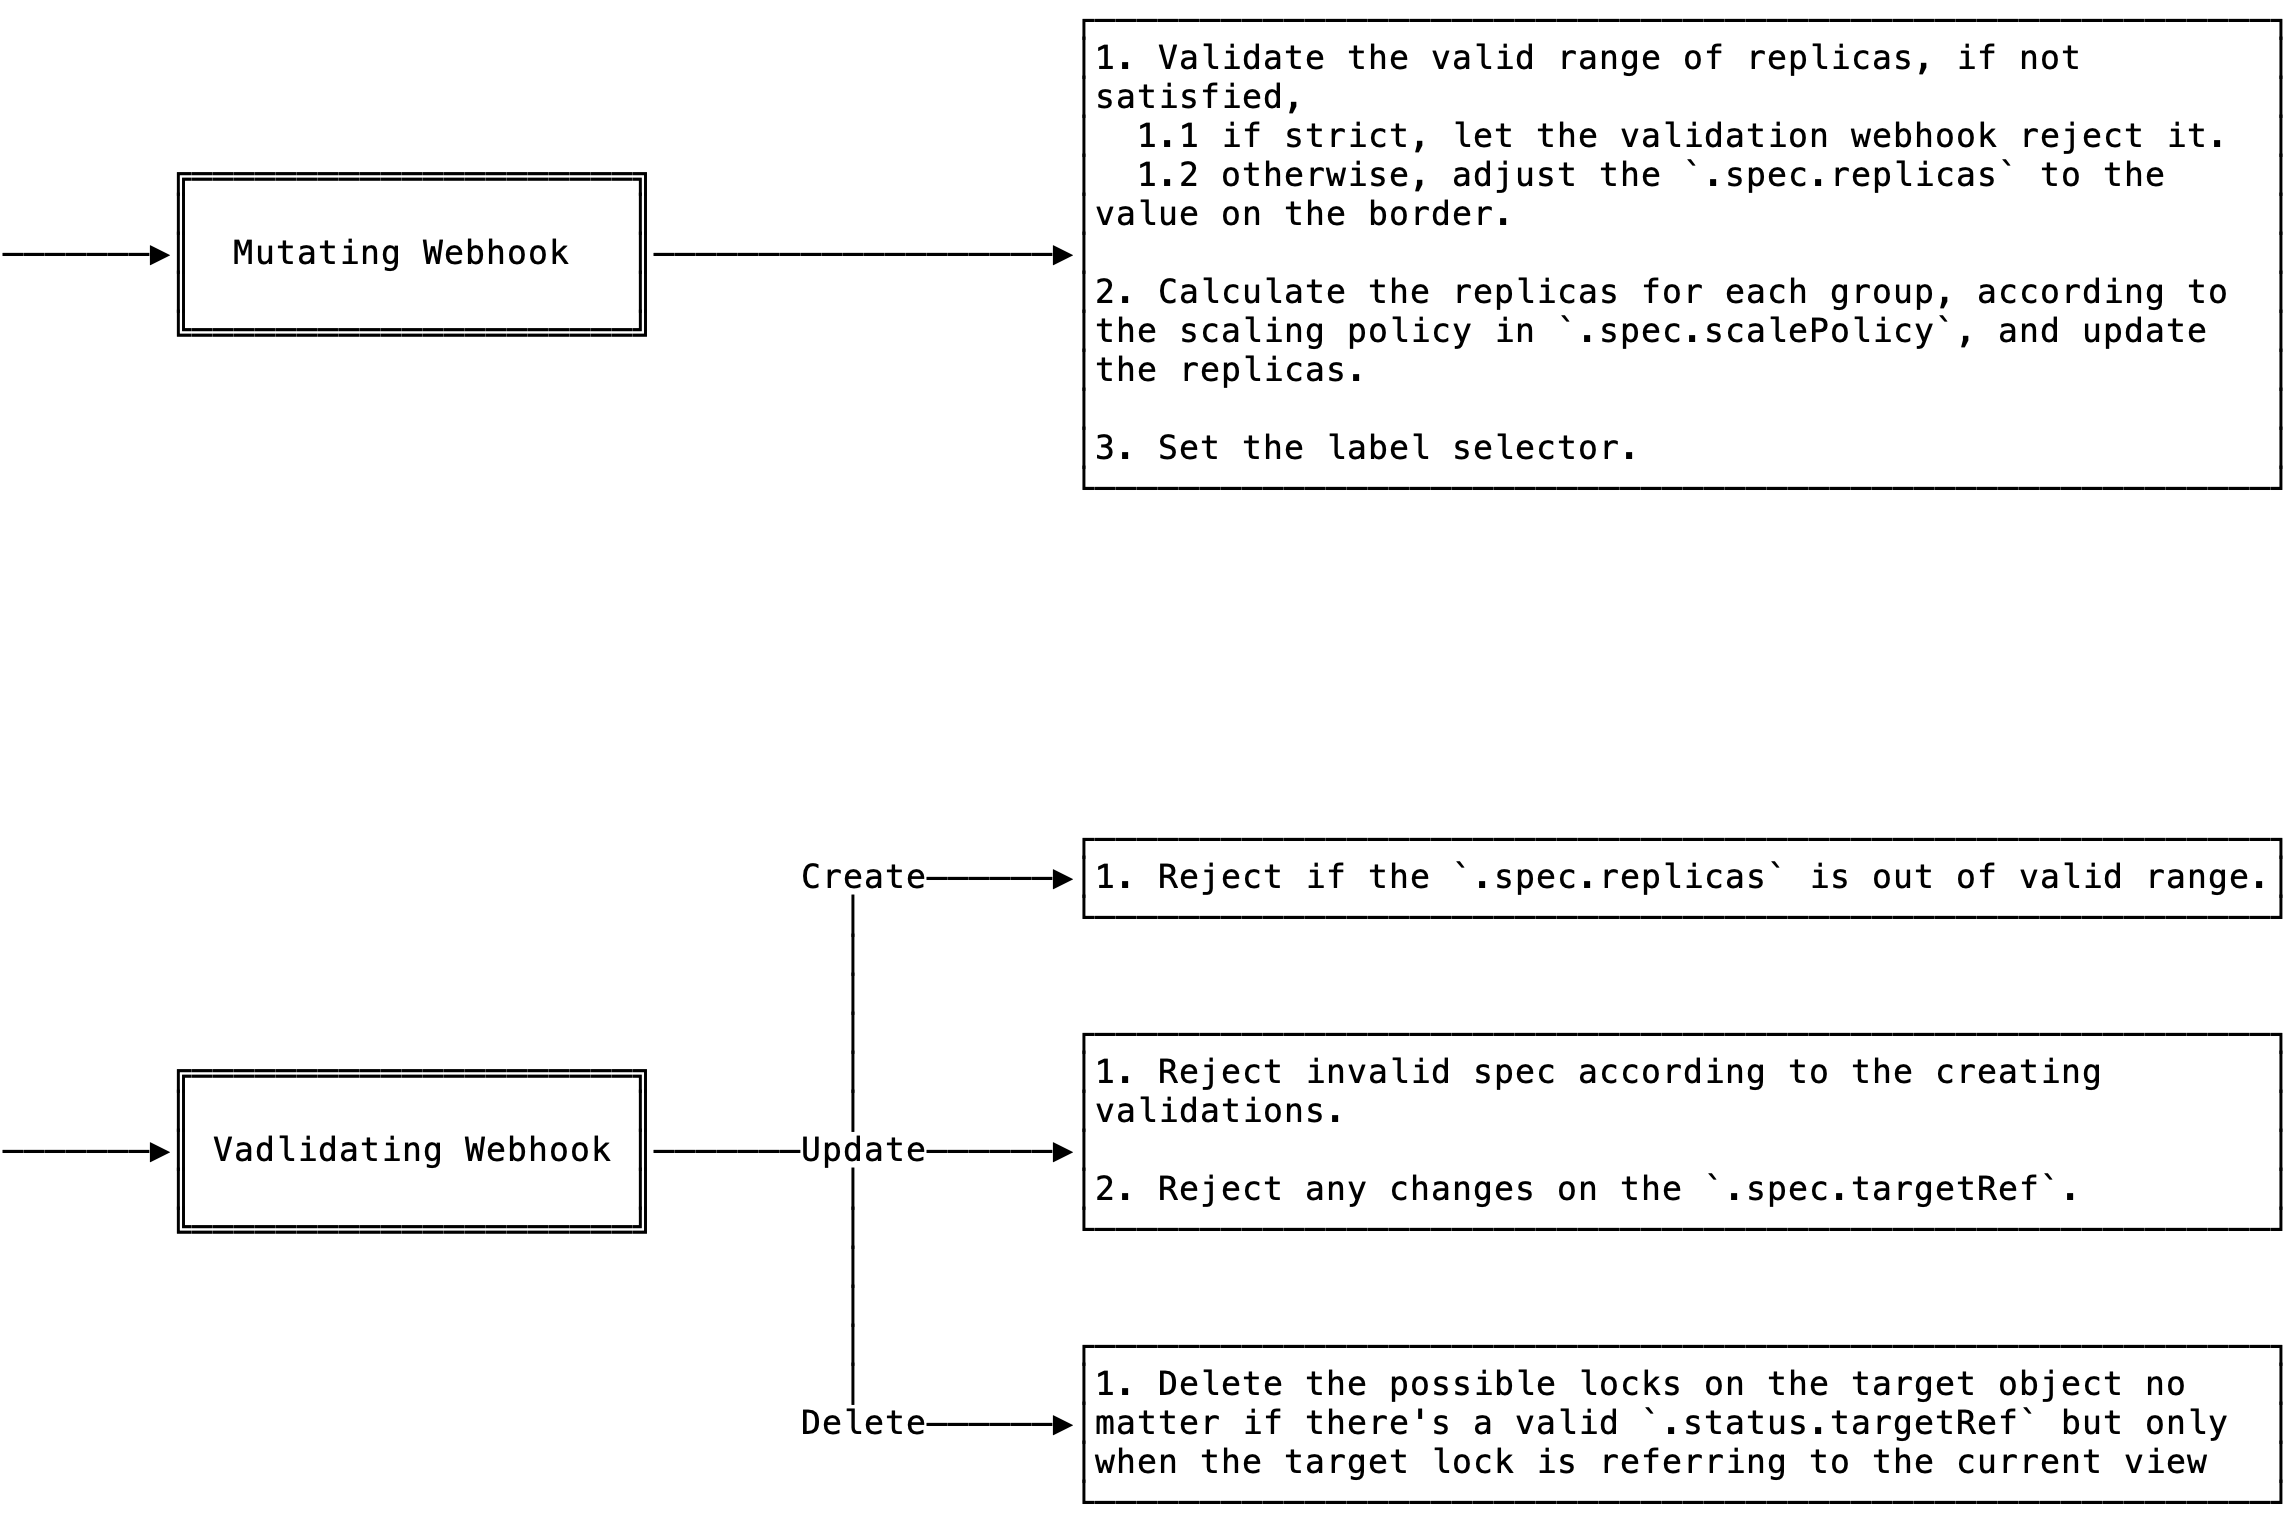
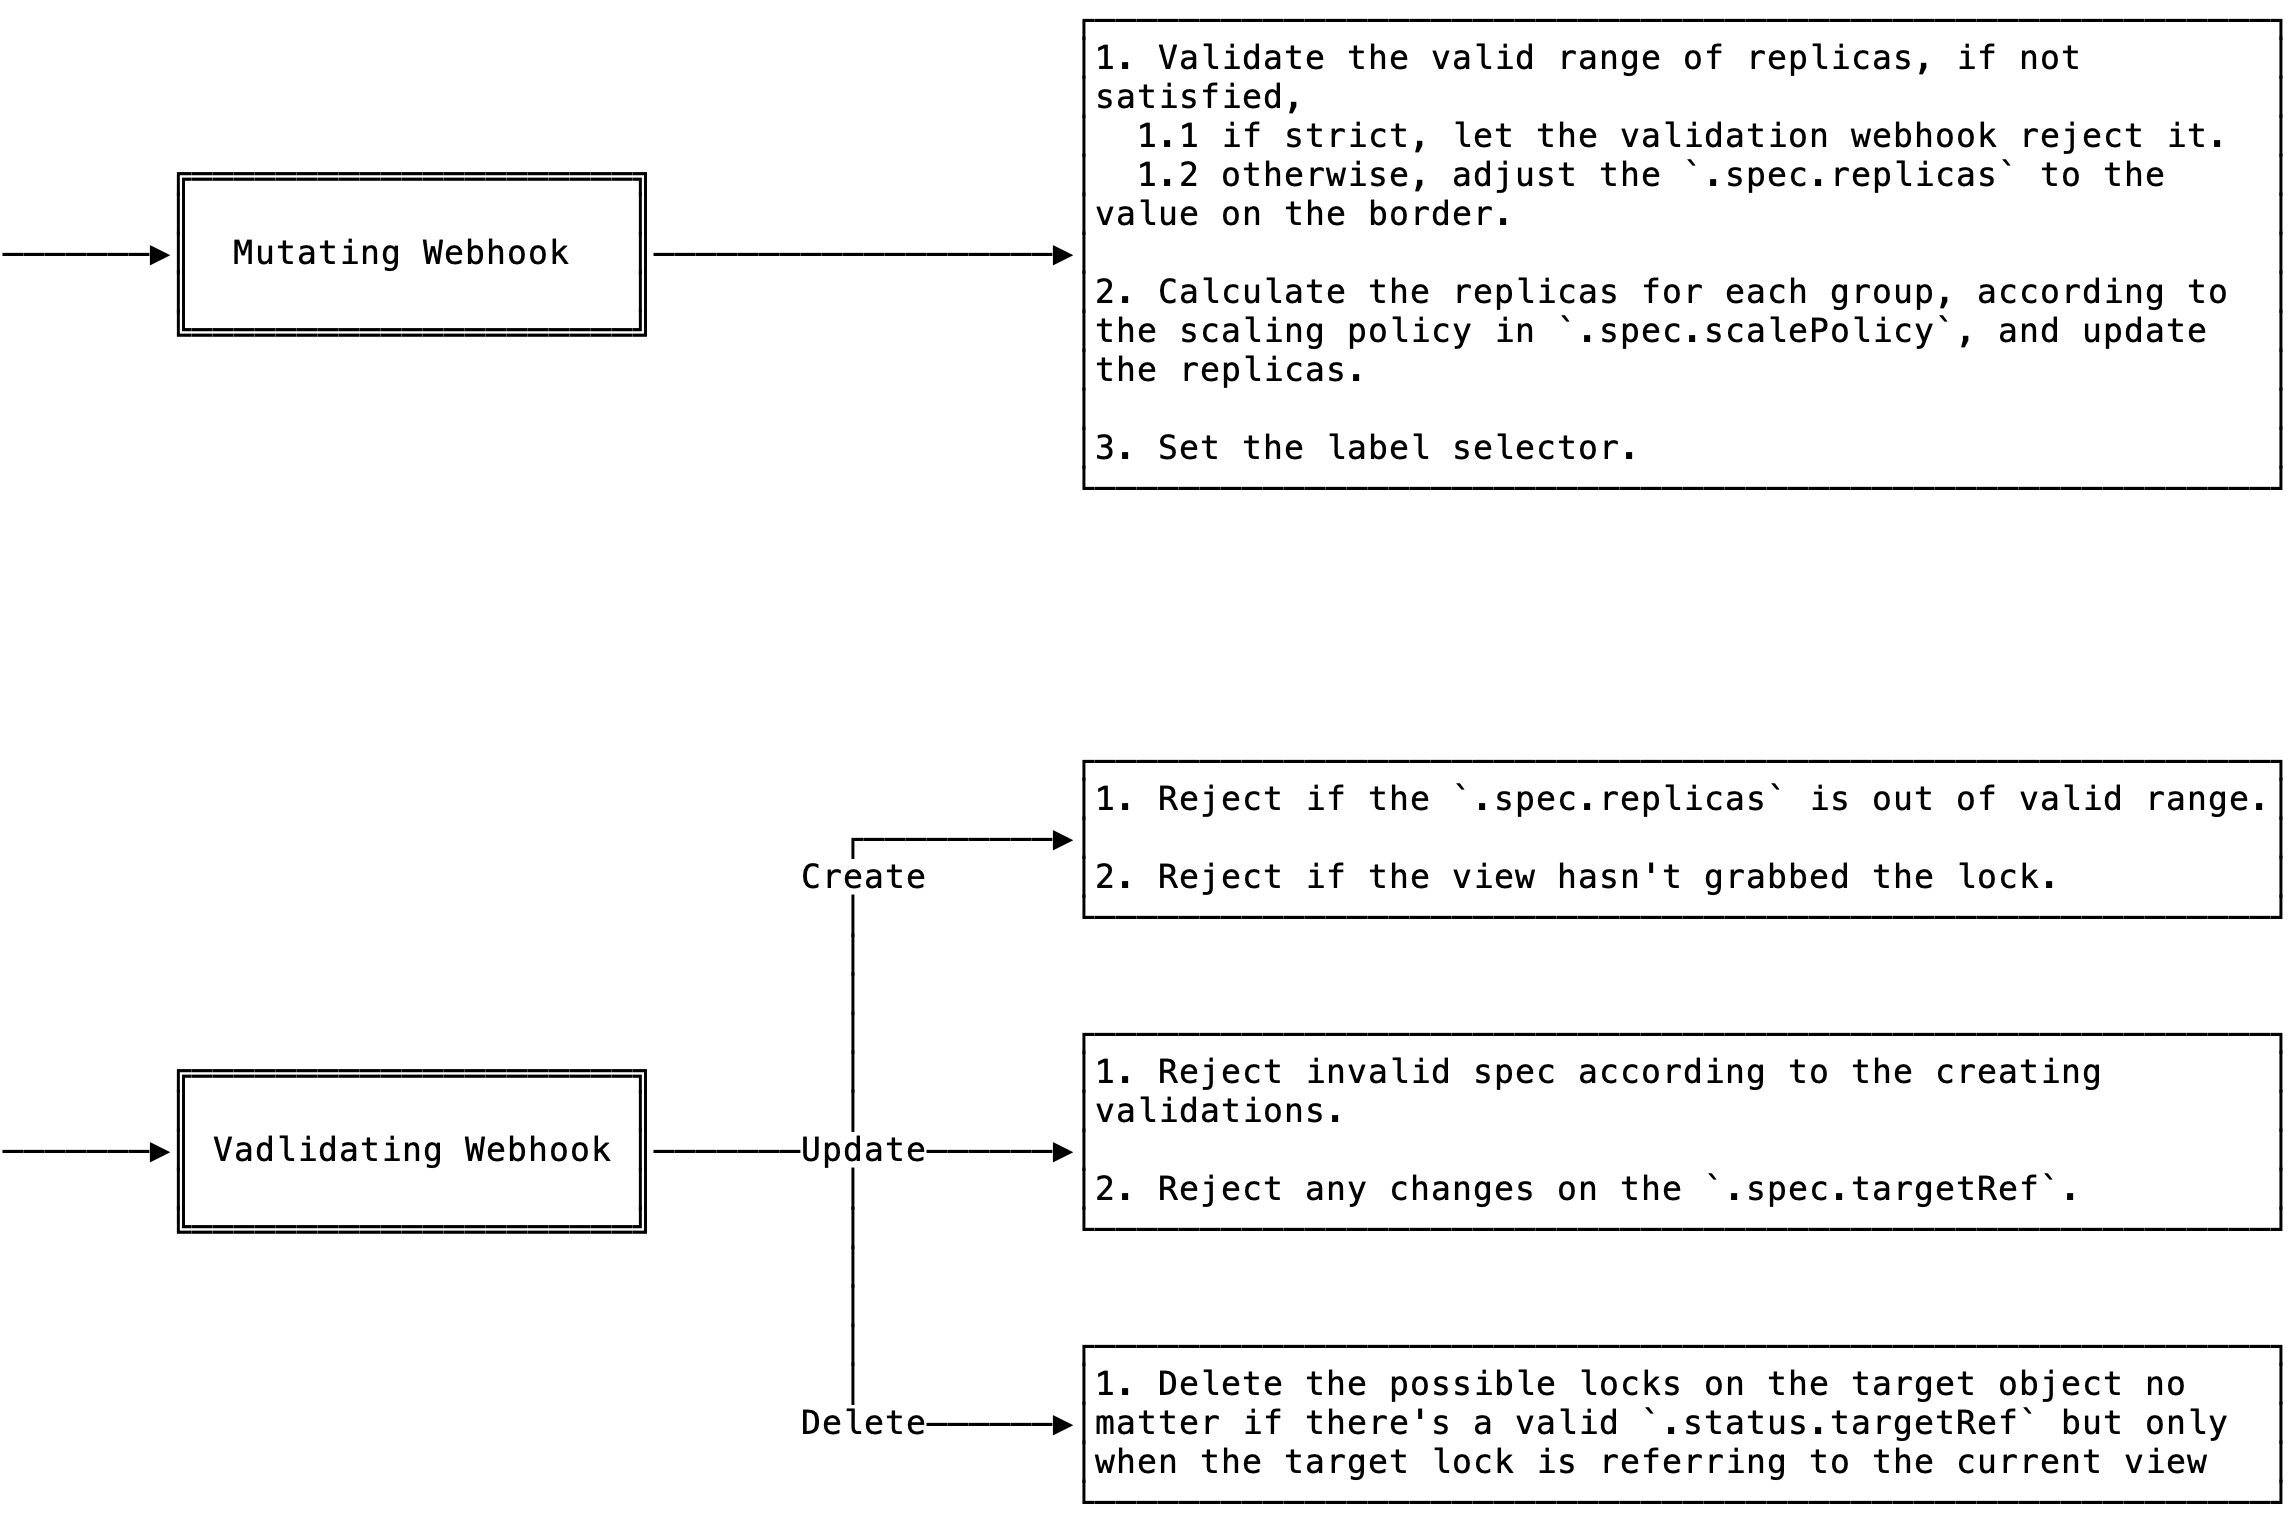
docs(rfc): update the RFC-0004

Changed region(s): [[0.4337, 0.4934, 1.0, 0.586]]

diff --git a/docs/rfc/0004_component_groups_scale_view.md b/docs/rfc/0004_component_groups_scale_view.md
@@ -28,18 +28,15 @@ a subresource like the status but exposes three fixed fields:
 - `.status.selector` which refers to the Pod selector (but in a serialized manner)
 
 However, the current design of the `RisingWave` resource can not provide such a subresource because it is consisted of
-four
-independent components, and each of the component can have one or more groups. Therefore, the `kubectl scale` can not
-work directly
-on the `RisingWave` resource and so do other tools depend on that. And it is the main reason for proposing this new CR.
-I named it 'RisingWaveComponentScaleView'.
+four independent components, and each of the component can have one or more groups. Therefore, the `kubectl scale` can
+not work directly on the `RisingWave` resource and so do other tools depend on that. And it is the main reason for
+proposing this new CR. I named it 'RisingWaveComponentScaleView'.
 
 > What use cases does it support?
 
 With the `RisingWaveComponentScaleView`, the users can set up a view (similar to the view in databases) of some groups
-of one RisingWave component,
-in a `RisingWave` object, to expose the scale subresource. Then the magic happens and everything that depends on the
-scale subresource shall work.
+of one RisingWave component, in a `RisingWave` object, to expose the scale subresource. Then the magic happens and
+everything that depends on the scale subresource shall work.
 
 Take the auto-scaler as an example, we can set up the HPA or KEDA for frontend Pods with
 a `RisingWaveComponentScaleView` that targets the frontend groups.
@@ -64,7 +61,7 @@ a `RisingWaveComponentScaleView` that targets the frontend groups.
 
 > This is the technical portion of the RFC. Explain the design in sufficient detail.
 
-**`RisingWaveComponentScaleView` CRD**
+## `RisingWaveComponentScaleView` CRD
 
 ```yaml
 apiVersion: risingwave.risingwavelabs.com/v1alpha1
@@ -95,7 +92,7 @@ spec:
       min: 1              # >= 0, optional, default is 0
       max: 2              # >= minimum, optional, default is 1000 (indicates infinite because 1000 Pods are many enough to be considered as infinite).
   - group: 'spot'
-    priority: 1
+    priority: 0
     replicas: 3
 status:
   targetRef: # It has value only if the scale view has grabbed the lock on the target object.
@@ -103,7 +100,19 @@ status:
   replicas: 10             # Current replicas of target groups. Maintained by the controller.
 ```
 
-**`RisingWave` CRD and Webhooks**
+### Priority and Replica Constraints
+
+When updating the scale subresource, it's updating the `.spec.replicas` field above. The mutating webhook will then work
+to distribute the replicas of `.spec.replicas` to the replicas under the `scalePolicy`, following the rules below:
+
+- The replicas in each group must be confined within the constraints.
+- The groups with higher priorities always consume replicas first until it reaches the max boundary. E.g.,
+  when `.spec.replicas` is 4, the 'enduring' group (with priority 1, larger than the 'spot' group's) will have 2 (which
+  is the max) replicas, and then the left is assigned to the 'spot' group.
+- The groups with the same priorities tend to have similar replicas, within the constraints. Which is to say, the target
+  is to minimize the variance.
+
+## `RisingWave` CRD and Webhooks
 
 ```yaml
 apiVersion: risingwave.risingwavelabs.com/v1alpha1
@@ -133,15 +142,15 @@ Validating webhook:
 
 This is a compatible change and should not affect the RisingWave's workflow.
 
-**`RisingWaveComponentScaleView` Webhooks**
+## `RisingWaveComponentScaleView` Webhooks
 
 ![RisingWaveComponentScaleView Webhooks](./images/scale_view_webhooks.png)
 
-**`RisingWaveComponentScaleView` Controller**
+## `RisingWaveComponentScaleView` Controller
 
 ![RisingWaveComponentScaleView Controller](./images/scale_view_controller_workflow.png)
 
-**Use Cases**
+## Use Cases
 
 Case 1. Multi-AZ frontend and balanced scale
 
@@ -261,10 +270,21 @@ To ensure the end users can not touch these maintained fields accidentally.
 Q2: How can we ensure the consistency between spec and status subresource? They are intended to be updated individually.
 
 Whether separating the status subresource or not doesn't affect the optimistic concurrency policy used to resolve
-conflicts when updating.
-In one word, the update on metadata and spec and on status share the same lock. We can assume that either update is an
-atomic update on the whole
-object. So the webhook always observes a consistent object.
+conflicts when updating. In one word, the update on metadata and spec and on status share the same lock. We can assume
+that either update is an atomic update on the whole object. So the webhook always observes a consistent object.
+
+Q3: Why is there a lock on the RisingWave? What's the purpose?
+
+It is meant to disable the two-way synchronization between the `RisingWaveComponentScaleView` and `RisingWave` objects.
+Considering that we don't have such lock mechanism, the end users can update the replicas on `RisingWave` while the
+replicas of that group is monitored by the `RisingWaveComponentScaleView`. Then there will be two ways of sync:
+
+- `RisingWaveComponentScaleView` -> `RisingWave`
+- `RisingWave` -> `RisingWaveComponentScaleView`
+
+Currently, I have no idea how to tell which way we should choose to sync. Even though we have figured out how, the
+result will be rather confusing when there are two simultaneous updating. Therefore, using a lock on field to let the
+users know where to update it is more reasonable.
 
 > What other designs have been considered and what is the rationale for not choosing them?
 
